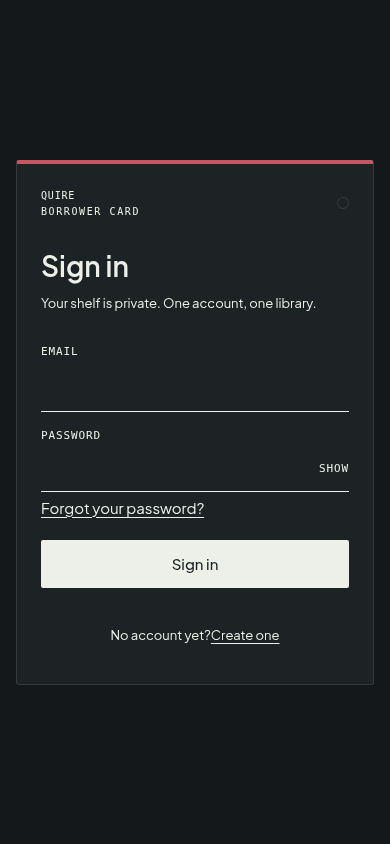
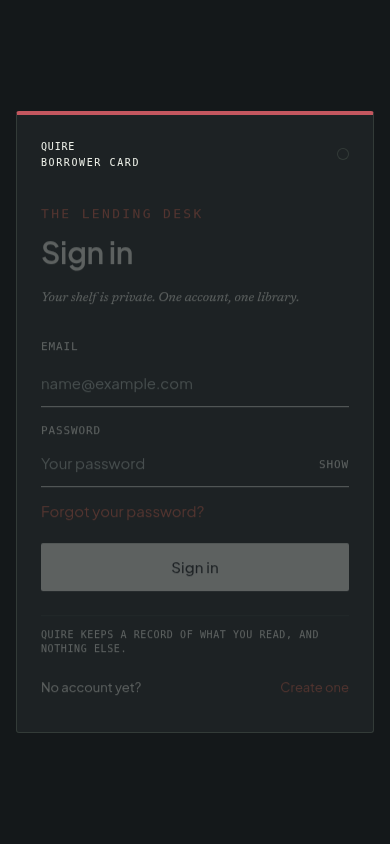
feat(auth): give the card a modern editorial voice

diff --git a/src/styles/auth.css b/src/styles/auth.css
@@ -385,3 +385,144 @@
 .borrower-card .auth-forgot {
   margin-top: var(--space-4);
 }
+
+/* the card arrives, it does not pop */
+@keyframes card-rise {
+  from {
+    opacity: 0;
+    transform: translateY(6px);
+  }
+  to {
+    opacity: 1;
+    transform: translateY(0);
+  }
+}
+
+.borrower-card .auth-face {
+  animation: card-rise 180ms var(--ease);
+}
+
+.borrower-card .auth-kicker {
+  margin: 0 0 var(--space-6);
+  font: 10px / 12px var(--font-mono);
+  letter-spacing: 0.18em;
+  text-transform: uppercase;
+  color: var(--accent);
+}
+
+.borrower-card .auth-head h1 {
+  font-size: 30px;
+  line-height: 34px;
+  letter-spacing: -0.01em;
+  margin: 0 0 var(--space-8);
+}
+
+.borrower-card .auth-lede {
+  margin: 0;
+  font-family: var(--font-serif);
+  font-size: 15px;
+  line-height: 22px;
+}
+
+/* the underline is the focus state, so it grows instead of appearing */
+.borrower-card .auth-form input {
+  border-bottom-width: var(--rule-width);
+  transition: border-color var(--motion) var(--ease);
+}
+
+.borrower-card .auth-form input:focus {
+  border-bottom-color: var(--accent);
+  outline: none;
+}
+
+.borrower-card .auth-issued {
+  width: 100%;
+  margin: var(--space-24) 0 0;
+  padding-top: var(--space-12);
+  border-top: var(--rule-width) solid var(--rule);
+  font: 10px / 14px var(--font-mono);
+  letter-spacing: 0.06em;
+  text-transform: uppercase;
+  color: var(--ink);
+  text-align: left;
+}
+
+@media (prefers-reduced-motion: reduce) {
+  .borrower-card .auth-face {
+    animation: none;
+  }
+}
+
+/* the footer is one column: the privacy line sits on the rule, the switch under it */
+.borrower-card .auth-footer {
+  display: flex;
+  flex-direction: column;
+  gap: var(--space-8);
+}
+
+.borrower-card .auth-issued {
+  border-top: var(--rule-width) solid var(--rule);
+  padding-top: var(--space-12);
+  margin: 0;
+}
+
+/* placeholders exist so the field reads as a field, not a printed blank */
+.borrower-card .auth-form input::placeholder {
+  color: var(--ink-muted);
+  opacity: 1;
+}
+
+.borrower-card .auth-form input:focus {
+  background: color-mix(in srgb, var(--accent) 6%, transparent);
+}
+
+/* links are ink, not browser blue-underlined */
+.borrower-card .auth-forgot,
+.borrower-card .auth-switch-action {
+  text-decoration: none;
+  color: var(--accent);
+}
+
+.borrower-card .auth-forgot:hover,
+.borrower-card .auth-switch-action:hover,
+.borrower-card .auth-forgot:focus-visible,
+.borrower-card .auth-switch-action:focus-visible {
+  text-decoration: underline;
+  text-underline-offset: 3px;
+}
+
+.borrower-card .auth-switch {
+  justify-content: space-between;
+  gap: var(--space-8);
+  width: 100%;
+}
+
+.borrower-card .auth-switch-ask {
+  color: var(--ink);
+}
+
+/* the button keeps its weight but stops shouting */
+.borrower-card .auth-form .primary {
+  font-size: 15px;
+  letter-spacing: 0.01em;
+}
+
+/* micro spacing: the writer needs air above the rule, the link needs air above it */
+.borrower-card .auth-form input {
+  padding-bottom: var(--space-10);
+}
+
+.borrower-card .auth-forgot {
+  margin-top: var(--space-10);
+}
+
+/* a 44px touch target even though the word is small */
+.borrower-card .auth-field .auth-reveal {
+  display: inline-flex;
+  align-items: center;
+  justify-content: flex-end;
+  min-height: 44px;
+  min-width: 44px;
+  bottom: 0;
+  padding: 0;
+}

diff --git a/src/features/auth/AuthForm.tsx b/src/features/auth/AuthForm.tsx
@@ -129,10 +129,11 @@ export function AuthForm({ client }: { client: SupabaseClient }) {
         data-slide={switched ? "true" : undefined}
       >
         <header className="auth-head">
+          <p className="auth-kicker">The lending desk</p>
           <h1 id="auth-title" ref={heading} tabIndex={-1}>
             {mode === "signin" ? "Sign in" : "Create an account"}
           </h1>
-          <p>Your shelf is private. One account, one library.</p>
+          <p className="auth-lede">Your shelf is private. One account, one library.</p>
         </header>
         <form
           onSubmit={submit}
@@ -146,6 +147,7 @@ export function AuthForm({ client }: { client: SupabaseClient }) {
               type="email"
               name="email"
               autoComplete="email"
+              placeholder="name@example.com"
               required
               disabled={busy}
               value={email}
@@ -159,6 +161,7 @@ export function AuthForm({ client }: { client: SupabaseClient }) {
             <input
               type={reveal ? "text" : "password"}
               name="password"
+              placeholder={mode === "signup" ? "At least 8 characters" : "Your password"}
               autoComplete={mode === "signin" ? "current-password" : "new-password"}
               required
               minLength={8}
@@ -197,6 +200,7 @@ export function AuthForm({ client }: { client: SupabaseClient }) {
                   type="password"
                   name="repeat"
                   autoComplete="new-password"
+                  placeholder="Type it again"
                   disabled={busy}
                   value={repeat}
                   aria-invalid={mismatch}
@@ -236,6 +240,7 @@ export function AuthForm({ client }: { client: SupabaseClient }) {
           </button>
         </form>
         <footer className="auth-footer">
+          <p className="auth-issued">Quire keeps a record of what you read, and nothing else.</p>
           <button
             type="button"
             className="auth-switch"
